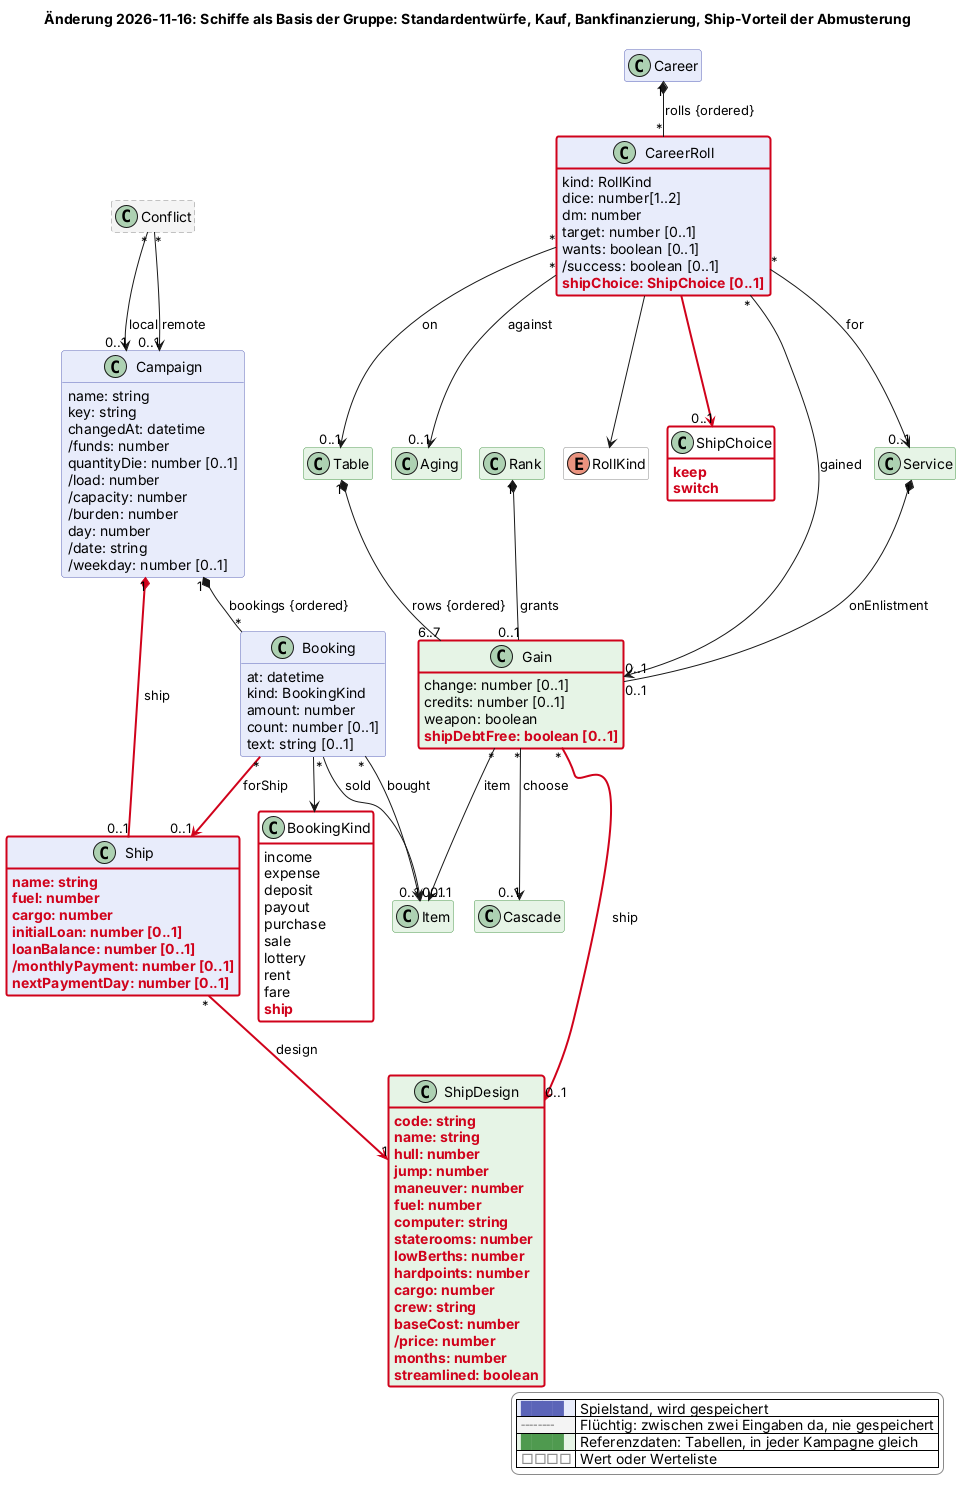
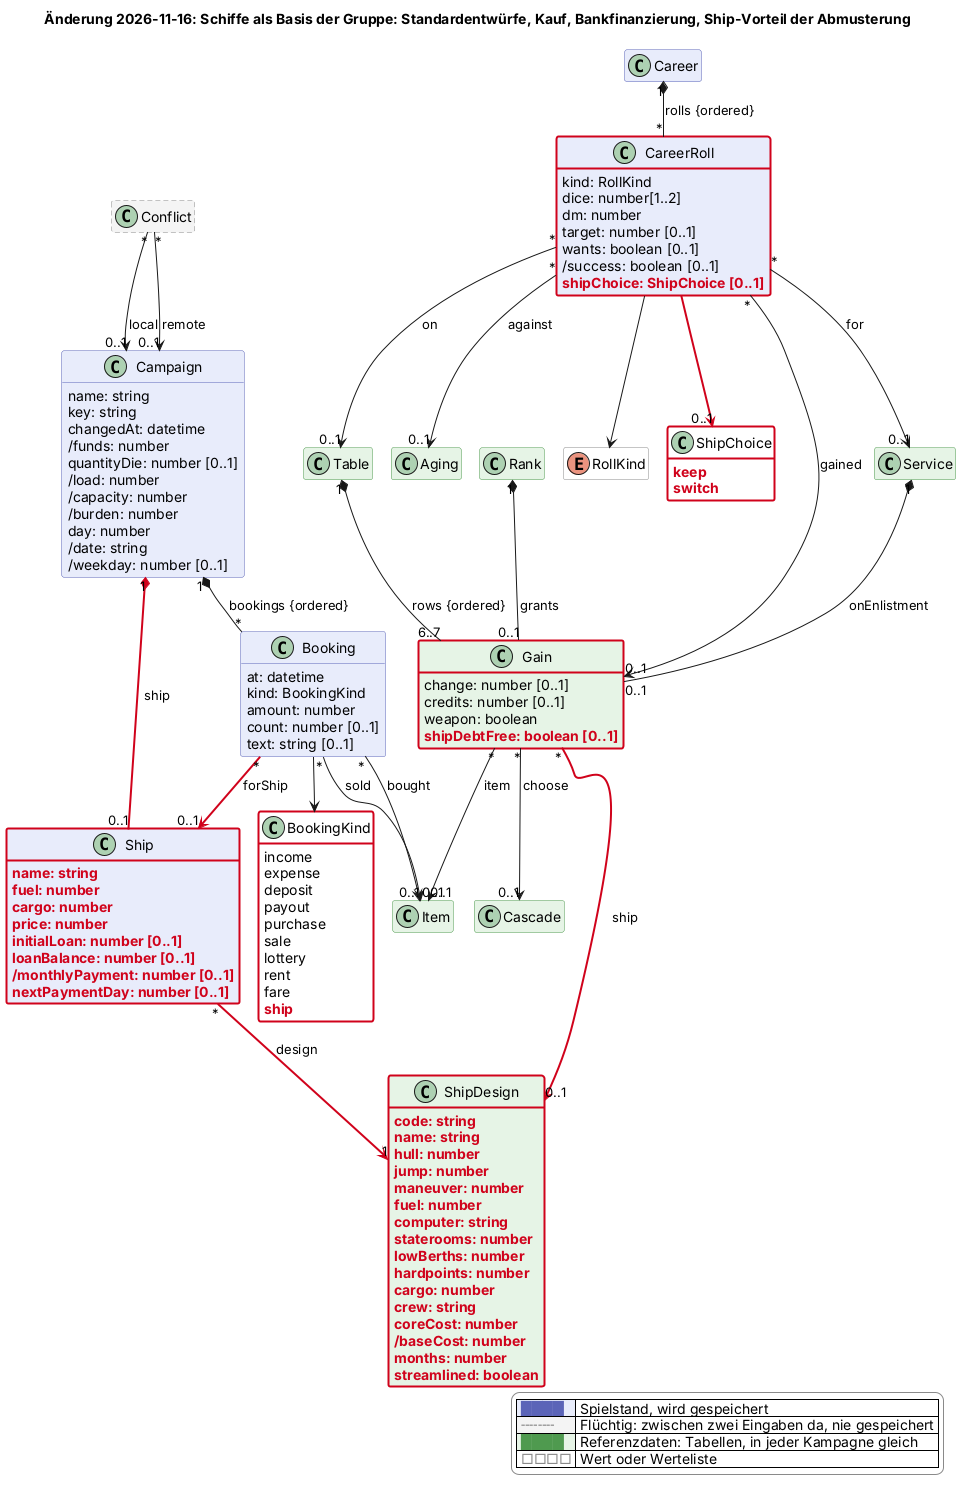
Schiffe (Entwurf): Grundpreis des Entwurfs und tatsächlicher Preis des Schiffs trennen
ShipDesign.coreCost (gespeichert) und /baseCost (abgeleitet) ersetzen das
vorige baseCost/price-Paar: /baseCost ist, was ein neues Schiff dieses
Entwurfs normalerweise kostet. Ship bekommt dazu sein eigenes, gespeichertes
price: der tatsächlich gezahlte Preis, zunächst gleich /baseCost, aber ein
eigenes Feld, damit er später abweichen kann (z. B. Nachlass für ein
gebrauchtes Standardschiff, SR 31), ohne rückwirkend am Entwurf zu hängen.
initialLoan bei Bankfinanzierung und Abmusterung richtet sich jetzt nach
Ship.price statt nach design.baseCost (Owner-Hinweis).

Claude-Session: https://claude.ai/code/session_016ZF27xcWZGJ2yafXxaqqxe

Changed region(s): [[0.0, 0.5238, 0.2495, 0.6778], [0.4054, 0.8627, 0.5301, 0.9243]]

diff --git a/docs/domain-model.md b/docs/domain-model.md
@@ -360,9 +360,10 @@ Lücken unter [Wo der Code noch nicht folgt](#wo-der-code-noch-nicht-folgt).
 >
 > **Entwurf vom 16. November 2026, wartet auf Freigabe** (Kennzeichen 2026-11-16): **Schiffe als
 > Basis der Gruppe** (siehe *Schiffe*, RAW-Regeln in [`regeln-schiffe.md`](regeln-schiffe.md)). Erster
-> von drei Schritten (danach Handel, dann Raumkampf). Neu im Bild: `Ship`, `ShipDesign`,
-> `Campaign.ship`, `BookingKind.ship`, `Booking.forShip`, `Gain.ship`, `Gain.shipDebtFree`,
-> `CareerRoll.shipChoice`, `ShipChoice`. Der Ausschnitt dazu liegt unter
+> von drei Schritten (danach Handel, dann Raumkampf). Neu im Bild: `Ship` (mit `price`, eigener
+> gezahlter Preis, getrennt vom `/baseCost` des Entwurfs), `ShipDesign`, `Campaign.ship`,
+> `BookingKind.ship`, `Booking.forShip`, `Gain.ship`, `Gain.shipDebtFree`, `CareerRoll.shipChoice`,
+> `ShipChoice`. Der Ausschnitt dazu liegt unter
 > [`changes/2026-11-16-schiffe-basis.png`](changes/2026-11-16-schiffe-basis.png).
 
 ![Domänenmodell der Solo RPG Engine](domain-model.png)
@@ -677,8 +678,9 @@ Vacc Suit, Jack-of-all-Trades, …), Terms, Cr.
 | Würfelausdruck | `DiceExpr` | Wie viele W6 plus welcher DM, z. B. 2W6 + 1 oder 3W6 − 3 |
 | Schiff | `Ship`, `Campaign.ship` | Das eine Schiff der Gruppe als Basis: Entwurf, Name, Treibstoff und Fracht in Tonnen, offene Restschuld |
 | Schiffsentwurf | `ShipDesign` | Referenzdaten eines Standardentwurfs (Scout/Courier, Free Trader, …): Rumpf, Antriebe, Treibstofftank, Computer, Kabinen, Niedrigbetten, Hardpoints, Laderaum, Crewbedarf, Bauzeit; siehe [`regeln-schiffe.md`](regeln-schiffe.md) unter *Standardentwürfe* |
-| Grundkosten | `ShipDesign.baseCost` | Rumpf, Antriebe, Energiewerk und Computer zusammen; nicht weiter aufgeteilt, weil dafür die Tabellen aus *Charts and Tables* fehlen |
-| Listenpreis | `ShipDesign./price` | Grundkosten plus Brücke, Kabinen, Niedrigbetten und Hardpoints, mit 10 % Rabatt für Standardentwürfe (SR 31) |
+| Kernkosten | `ShipDesign.coreCost` | Rumpf, Antriebe, Energiewerk und Computer zusammen; nicht weiter aufgeteilt, weil dafür die Tabellen aus *Charts and Tables* fehlen |
+| Grundpreis | `ShipDesign./baseCost` | Kernkosten plus Brücke, Kabinen, Niedrigbetten und Hardpoints, mit 10 % Rabatt für Standardentwürfe (SR 31); was ein neues Schiff dieses Entwurfs normalerweise kostet |
+| Preis | `Ship.price` | Was dieses eine Schiff tatsächlich gekostet hat; beim Erwerb gleich dem Grundpreis seines Entwurfs, kann aber abweichen (z. B. gebrauchtes Schiff, später) |
 | Kreditsumme | `Ship.initialLoan` | Was bei der Bankfinanzierung eines Schiffs insgesamt finanziert wurde (200 % des Preises); bleibt stehen, auch wenn sich der Preis des Entwurfs später ändert |
 | Restschuld | `Ship.loanBalance` | Was von der Kreditsumme noch offen ist; fehlt, wenn das Schiff schuldenfrei ist |
 | Monatsrate | `Ship./monthlyPayment` | Ein Vierhundertachtzigstel der Kreditsumme, immer gleich hoch |
@@ -2475,70 +2477,79 @@ Vacc Suit, Jack-of-all-Trades, …), Terms, Cr.
   [`regeln-schiffe.md`](regeln-schiffe.md). Die Gruppe hat **höchstens ein Schiff** (`Campaign.ship`),
   wie das Gruppengepäck.
   - **Schiff und Entwurf.** `Ship` ist der gespeicherte Stand (Name, Treibstoff und Fracht in Tonnen,
-    Restschuld); `ShipDesign` sind Referenzdaten für die Standardentwürfe aus SR 35–37 (Scout/Courier,
-    Free Trader, Subsidized Merchant, Subsidized Liner, Yacht, Mercenary Cruiser, Patrol Cruiser,
-    Laboratory Ship, Safari Ship) mit Rumpf, Antrieben, Treibstofftank, Computer, Kabinen,
-    Niedrigbetten, Hardpoints, Laderaum, Crewbedarf als Text und Bauzeit. Treibstoff und
-    Fracht sind zunächst nur Zahlen in Tonnen, ohne einzelne Güter; was wirklich im Laderaum liegt,
-    kommt erst mit dem Handel. Ebenso bleiben die Hardpoints vorerst unbewaffnet (Zahl aus dem
-    Entwurf); Waffen und Turrets kommen erst mit dem Raumkampf. **Noch nicht in diesem Schritt:**
-    welcher SC welche Schiffsposition (Pilot, Navigator, Engineer, Steward, Medic, Gunner) ausfüllt
-    (dafür reicht vorerst der Crewbedarf-Text am Entwurf); mehrere Schiffe gleichzeitig; eigene
-    (Custom-)Entwürfe statt der Standardentwürfe; Small Craft (Launch, Ship's Boat, …) bleiben
-    einfache Gegenstände der Art `ship` wie bisher, ohne eigenen `ShipDesign`.
-  - **Listenpreis aus den Bauteilen** (Owner, 16. November 2026): Der Preis eines Entwurfs steht nicht
-    als fester Wert da, sondern folgt aus seinen Bauteilen, wie es die Baukosten in SR 31–33 auch
-    vorgeben (`/price`). Bekannt und ohne Lücke sind die Brücke (500 Cr je Tonne Rumpf, aus MCr0,05 je
-    100 t), Kabinen (Cr500.000 je Stück), Niedrigbetten (Cr50.000 je Stück) und Hardpoints (Cr100.000
-    je Stück); Treibstofftank und Laderaum **kosten nichts** (SR 32, ausdrücklich „there is no
-    cost“). Rumpf, Antriebe, Energiewerk und Computer lassen sich dagegen nicht einzeln bepreisen,
-    weil dafür die Tabellen aus *Charts and Tables* fehlen (siehe `regeln-schiffe.md` unter
-    *Lücken*); sie bleiben deshalb als ein Posten `baseCost` stehen. Die Formel:
-    `/price = round((baseCost + hull × 500 + staterooms × 500.000 + lowBerths × 50.000 + hardpoints
-    × 100.000) × 0,9)`, mit dem aus SR 31 bekannten Rabatt von 10 % für Standardentwürfe. `baseCost`
-    je Standardentwurf ist so gewählt, dass `/price` genau den in SR 35–37 genannten Preis ergibt
-    (z. B. Free Trader MCr37,08); die neun Werte stehen, sobald der Code folgt, in den Referenzdaten.
-    Fehlt später ein eigener (Custom-)Entwurf mit echten Rumpf-/Antriebs-/Computerkosten, ersetzt
-    das die Tabellen aus den Charts, nicht die Formel.
-  - **Erwerb.** Drei Wege, alle im Shop bzw. in der Charaktererschaffung:
-    1. **Bar aus der Kasse:** der volle Listenpreis (`/price`) des Entwurfs wird sofort gebucht
-       (`BookingKind.ship`), das Schiff entsteht ohne Restschuld, mit vollem Tank und leerem
-       Laderaum.
+    der tatsächlich gezahlte Preis, Restschuld); `ShipDesign` sind Referenzdaten für die
+    Standardentwürfe aus SR 35–37 (Scout/Courier, Free Trader, Subsidized Merchant, Subsidized
+    Liner, Yacht, Mercenary Cruiser, Patrol Cruiser, Laboratory Ship, Safari Ship) mit Rumpf,
+    Antrieben, Treibstofftank, Computer, Kabinen, Niedrigbetten, Hardpoints, Laderaum, Crewbedarf als
+    Text und Bauzeit. Treibstoff und Fracht sind zunächst nur Zahlen in Tonnen, ohne einzelne Güter;
+    was wirklich im Laderaum liegt, kommt erst mit dem Handel. Ebenso bleiben die Hardpoints
+    vorerst unbewaffnet (Zahl aus dem Entwurf); Waffen und Turrets kommen erst mit dem Raumkampf.
+    **Noch nicht in diesem Schritt:** welcher SC welche Schiffsposition (Pilot, Navigator, Engineer,
+    Steward, Medic, Gunner) ausfüllt (dafür reicht vorerst der Crewbedarf-Text am Entwurf); mehrere
+    Schiffe gleichzeitig; eigene (Custom-)Entwürfe statt der Standardentwürfe; Small Craft (Launch,
+    Ship's Boat, …) bleiben einfache Gegenstände der Art `ship` wie bisher, ohne eigenen
+    `ShipDesign`.
+  - **Grundpreis aus den Bauteilen, tatsächlicher Preis am Schiff** (Owner, 16. November 2026): Am
+    Entwurf steht kein fester Preis, sondern er folgt aus seinen Bauteilen, wie es die Baukosten in
+    SR 31–33 auch vorgeben (`ShipDesign./baseCost`). Bekannt und ohne Lücke sind die Brücke (500 Cr
+    je Tonne Rumpf, aus MCr0,05 je 100 t), Kabinen (Cr500.000 je Stück), Niedrigbetten (Cr50.000 je
+    Stück) und Hardpoints (Cr100.000 je Stück); Treibstofftank und Laderaum **kosten nichts** (SR
+    32, ausdrücklich „there is no cost“). Rumpf, Antriebe, Energiewerk und Computer lassen sich
+    dagegen nicht einzeln bepreisen, weil dafür die Tabellen aus *Charts and Tables* fehlen (siehe
+    `regeln-schiffe.md` unter *Lücken*); sie bleiben deshalb als ein gespeicherter Posten
+    `coreCost` stehen. Die Formel: `/baseCost = round((coreCost + hull × 500 + staterooms × 500.000
+    + lowBerths × 50.000 + hardpoints × 100.000) × 0,9)`, mit dem aus SR 31 bekannten Rabatt von
+    10 % für Standardentwürfe. `coreCost` je Standardentwurf ist so gewählt, dass `/baseCost` genau
+    den in SR 35–37 genannten Preis ergibt (z. B. Free Trader MCr37,08); die neun Werte stehen,
+    sobald der Code folgt, in den Referenzdaten. Fehlt später ein eigener (Custom-)Entwurf mit
+    echten Rumpf-/Antriebs-/Computerkosten, ersetzt das die Tabellen aus den Charts, nicht die
+    Formel.
+    `Ship.price` ist dagegen der **tatsächlich gezahlte Preis dieses einen Schiffs**: beim Erwerb
+    gleich `design./baseCost` gesetzt, aber ein eigenes, gespeichertes Feld, weil er später davon
+    abweichen kann und soll – etwa für ein **gebrauchtes Standardschiff** (SR 31: 10–40 Jahre alt,
+    10–40 % günstiger). Ein solcher Preisnachlass ist **nicht Teil dieses Schritts** (offene Frage,
+    siehe unten), aber das Feld ist schon da, damit `price` nicht rückwirkend am Entwurf hängt,
+    sobald es ihn gibt.
+  - **Erwerb.** Drei Wege, alle im Shop bzw. in der Charaktererschaffung; in allen dreien wird
+    `Ship.price` zunächst auf `design./baseCost` gesetzt (kein Nachlass in diesem Schritt):
+    1. **Bar aus der Kasse:** der volle Preis (`price`) wird sofort gebucht (`BookingKind.ship`),
+       das Schiff entsteht ohne Restschuld, mit vollem Tank und leerem Laderaum.
     2. **Bankfinanzierung** (SR 29, voll nach RAW): 20 % Anzahlung sofort aus der Kasse gebucht
        (`BookingKind.ship`). Die **Kreditsumme** (`initialLoan`) wird beim Abschluss einmal auf
-       **200 % des damaligen Listenpreises** (`design./price`) festgelegt und bleibt so stehen, auch
-       wenn sich `baseCost` oder sonst etwas am Entwurf später ändert (480 Monatsraten à ein
-       Vierhundertachtzigstel der Kreditsumme ergeben zusammen mit der Anzahlung die 220 % aus SR
-       29); die **Restschuld** (`loanBalance`) beginnt gleich der Kreditsumme und sinkt mit jeder
-       bezahlten Rate. Die **Monatsrate** (`/monthlyPayment`) folgt daraus (`initialLoan / 480`),
-       nicht noch einmal aus `design./price`. Jedes Mal, wenn die Spielzeit den Tag
-       `nextPaymentDay` erreicht oder überschreitet (beim Tage-vergehen-lassen, bei Woche beenden
-       oder einer Fahrt), wird die Rate automatisch aus der Kasse gebucht und die Restschuld sinkt;
-       reicht die Kasse nicht, bleibt die Rate offen (Buchung mit Hinweistext „Rate nicht bezahlt“)
-       und `nextPaymentDay` rückt trotzdem einen Monat (30 Tage) weiter. **✱ Hausregel/offener
-       Punkt:** Die Pfändung bei Zahlungsverzug (SR 28, Distanz-DM zur Heimatwelt des Schiffs) ist
-       damit **nicht** nachgebaut; eine unbezahlte Rate hat vorerst keine Folge außer dem Hinweis im
-       Log. Das holt ein späterer Schritt nach, wenn Pfändung wirklich gebraucht wird.
+       **200 % von `price`** festgelegt und bleibt so stehen, auch wenn sich `price` oder der Entwurf
+       später ändern (480 Monatsraten à ein Vierhundertachtzigstel der Kreditsumme ergeben zusammen
+       mit der Anzahlung die 220 % aus SR 29); die **Restschuld** (`loanBalance`) beginnt gleich der
+       Kreditsumme und sinkt mit jeder bezahlten Rate. Die **Monatsrate** (`/monthlyPayment`) folgt
+       daraus (`initialLoan / 480`), nicht noch einmal aus `price`. Jedes Mal, wenn die Spielzeit
+       den Tag `nextPaymentDay` erreicht oder überschreitet (beim Tage-vergehen-lassen, bei Woche
+       beenden oder einer Fahrt), wird die Rate automatisch aus der Kasse gebucht und die Restschuld
+       sinkt; reicht die Kasse nicht, bleibt die Rate offen (Buchung mit Hinweistext „Rate nicht
+       bezahlt“) und `nextPaymentDay` rückt trotzdem einen Monat (30 Tage) weiter. **✱
+       Hausregel/offener Punkt:** Die Pfändung bei Zahlungsverzug (SR 28, Distanz-DM zur Heimatwelt
+       des Schiffs) ist damit **nicht** nachgebaut; eine unbezahlte Rate hat vorerst keine Folge
+       außer dem Hinweis im Log. Das holt ein späterer Schritt nach, wenn Pfändung wirklich gebraucht
+       wird.
     3. **Ship-Vorteil der Abmusterung** (SR, Mustering-out Benefits; Hausregel-Zuordnung wie bisher
        bei `scout-ship`/`free-trader`): Eine Zeile der Benefits-Tabelle verweist jetzt über `Gain.ship`
        auf einen `ShipDesign` statt über `Gain.item` auf einen Gegenstand. Hat die Kampagne **noch
-       kein Schiff**, legt der Vorteil es an: beim Scout schuldenfrei (`Gain.shipDebtFree`,
-       `initialLoan` und `loanBalance` fehlen), beim Merchant mit `initialLoan` und `loanBalance`
-       auf 100 % des damaligen Listenpreises (`design./price`, der halbe Kredit; ein zweiter
-       Merchant-Ship-Vorteil für denselben Entwurf zahlt die Restschuld auf 0, ohne `initialLoan` zu
-       ändern). Hat die Kampagne schon ein
+       kein Schiff**, legt der Vorteil es an (`price` = `design./baseCost`): beim Scout schuldenfrei
+       (`Gain.shipDebtFree`, `initialLoan` und `loanBalance` fehlen), beim Merchant mit `initialLoan`
+       und `loanBalance` auf 100 % von `price` (der halbe Kredit; ein zweiter Merchant-Ship-Vorteil
+       für denselben Entwurf zahlt die Restschuld auf 0, ohne `initialLoan` zu ändern). Hat die
+       Kampagne schon ein
        **anderes** Schiff, entscheidet der Spieler (`CareerRoll.shipChoice`): **behalten** (der
        Vorteil bleibt ohne Wirkung, steht aber im Lebenslauf) oder **wechseln** (das alte Schiff
        samt seiner Restschuld entfällt ersatzlos – „Kredit kündigen“ als Vereinfachung, kein
        Verkaufserlös). Die alten Gegenstände `scout-ship` und `free-trader` (Art `ship`) entfallen
-       aus `items.json`, sobald der Code folgt; ihre Preise stehen jetzt als `baseCost` an
+       aus `items.json`, sobald der Code folgt; ihre Preise stehen jetzt als `coreCost` an
        `ShipDesign`.
   - **Offene Fragen für einen späteren Schritt:** Wie die Gruppe mit dem eigenen Schiff zwischen
     Sternen springt (ergänzt die gekaufte Passage, ersetzt sie nicht, siehe Owner-Entscheidung vom
     16. November 2026) – das braucht noch eine eigene Reise-Mechanik mit Treibstoffverbrauch pro
     Sprung und ist bewusst nicht Teil dieses Schritts. Ebenso offen: Pfändung bei Zahlungsverzug
     (siehe oben), Verkauf eines Schiffs, mehrere Schiffe, Custom-Entwürfe, Small Craft als eigene
-    `ShipDesign`.
+    `ShipDesign`, und der **Preisnachlass für ein gebrauchtes Standardschiff** (SR 31: 10–40 % je
+    nach Alter) über `Ship.price`.
 
 ## Wo der Code noch nicht folgt
 
